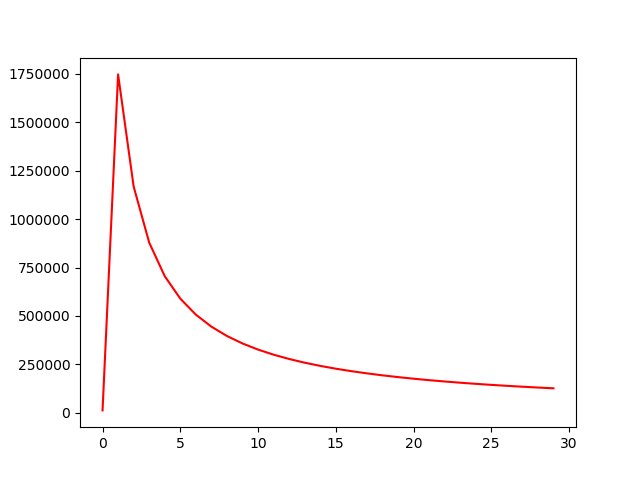
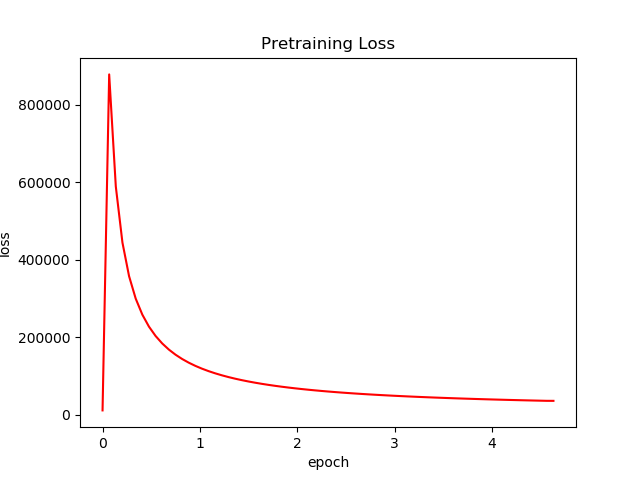
minor tweaks

diff --git a/python/FULL_MODEL_001/Net.py b/python/FULL_MODEL_001/Net.py
@@ -45,16 +45,15 @@ class Net(torch.nn.Module):
 
     def forward(self, x):
         x = x.unsqueeze(1)
-        x = self.do(x)
 
         a0 = F.relu(self.layer1(x))
         a0 = a0.reshape(a0.size(0), -1)    # Conv2D
 
-        a1 = self.bn1(F.relu(self.fc1(a0)))                    # FC layer 1
+        a1 = self.do(self.bn1(F.relu(self.fc1(a0))))                    # FC layer 1
 
-        a2 = self.bn2(F.relu(self.fc2(a1)))                     # FC layer 2
+        a2 = self.do(self.bn2(F.relu(self.fc2(a1))))                     # FC layer 2
 
-        a3 = self.bn3(F.relu(self.fc3(a2)))                     # FC layer 3
+        a3 = self.do(self.bn3(F.relu(self.fc3(a2))))                     # FC layer 3
 
         aDS = [F.relu(FC(a3)) for FC in self.DSP]
         o = [out(a4) for a4, out in zip(aDS, self.out)]
@@ -90,9 +89,9 @@ class Net(torch.nn.Module):
                                                             verbose=True, threshold=10,
                                                             threshold_mode='rel', cooldown=0,
                                                             min_lr=1e-5, eps=1e-08)
+        mse = []
         for epoch in range(self.params['PRETRAIN_EPOCHS']):
             total_loss = 0
-            mse = []
             self.train()
             ii = 0
             for X,y,_,resp_selector in self.train_gen:
@@ -112,7 +111,10 @@ class Net(torch.nn.Module):
 
     def plot_mse(self, mse, name):
         plt.figure()
-        plt.plot(mse, 'r-')
+        plt.plot((self.params['train_params']['batch_size']/len(self.test_gen.dataset))*np.arange(len(mse)), mse, 'r-')
+        plt.xlabel('epoch')
+        plt.ylabel('loss')
+        plt.title('Pretraining Loss')
         plt.savefig(f"{self.params['MODEL_OUT_DIR']}/{self.params['NAME']}/{name}.png")
         plt.close('all')
 
@@ -125,15 +127,15 @@ class Net(torch.nn.Module):
         loss_func = torch.nn.MSELoss(reduction='sum')
         scheduler = torch.optim.lr_scheduler.ReduceLROnPlateau(optim, mode='min',
                                                             factor=0.1, patience=self.params['LR_DECAY_PATIENCE'],
-                                                            verbose=True, threshold=1000,
+                                                            verbose=False, threshold=100,
                                                             threshold_mode='rel', cooldown=0,
                                                             min_lr=1e-5, eps=1e-08)
 
         self.recorder={'train':{'total_loss':[], 'mse':[], 'batch-mse':[]}, 'test':{'mse':[], 'batch-mse':[]}}
         MAX_EPOCH = self.params['EPOCHS']
+        tr_mse = []
         for epoch in range(MAX_EPOCH):
             total_loss = 0
-            mse = 0
             yhats=[]
             ys=[]
             self.train()
@@ -149,13 +151,14 @@ class Net(torch.nn.Module):
                 optim.zero_grad()
                 loss.backward()
                 optim.step()
+                scheduler.step(total_loss)
                 total_loss += loss.detach().numpy()
                 yhats += yhat.data.numpy()[resp_selector==1].ravel().tolist()
                 ys += y.data.numpy().ravel().tolist()
                 self.recorder['train']['batch-mse'].append(loss.detach().numpy()/X.size(0))
-                print(f'Train set... \t mse: [{loss.detach().numpy()/(X.size(0)):.4f}]  \t |  Epoch progress: [{ii}/{len(self.train_gen.dataset)}] {"."*int(ii/(len(self.train_gen.dataset)/10))}', end = '\t\t\t\r')
-
-            scheduler.step(total_loss)
+                tr_mse.append(total_loss/ii)
+                self.plot_mse(tr_mse, 'training_sse')
+                print(f'Train set... mse: [{loss.detach().numpy()/(X.size(0)):.4f}] | Epoch progress: [{ii}/{len(self.train_gen.dataset)}] {"."*int(ii/(len(self.train_gen.dataset)/10))}', end = '\t\t\t\r')
 
 
             self.recorder['train']['total_loss'].append(total_loss)
@@ -178,18 +181,18 @@ class Net(torch.nn.Module):
                 test_yhats += yhat.data.numpy()[resp_selector==1].ravel().tolist()
                 test_ys += y.data.numpy().ravel().tolist()
                 self.recorder['test']['batch-mse'].append(loss/X.size(0))
-                print(f'Test set... \t mse: [{loss/(X.size(0)):.4f}]   \t |  Epoch progress: [{jj}/{len(self.test_gen.dataset)}] {"."*int(jj/(len(self.test_gen.dataset)/10))}', end = '\t\t\t\r')
+                print(f'Test set... mse: [{loss/(X.size(0)):.4f}] | Epoch progress: [{jj}/{len(self.test_gen.dataset)}] {"."*int(jj/(len(self.test_gen.dataset)/10))}', end = '\t\t\t\r')
 
             self.recorder['test']['mse'].append(test_total_loss/len(self.test_gen.dataset))
 
-            self.plotter.update(tr_ys=ys[:10000], tr_yhats=yhats[:10000],
-                                tst_ys=test_ys[:10000], tst_yhats=test_yhats[:10000],
+            self.plotter.update(tr_ys=ys, tr_yhats=yhats,
+                                tst_ys=test_ys, tst_yhats=test_yhats,
                                 epoch=epoch, tr_loss=self.recorder['train']['mse'][-1],
                                 tst_loss=self.recorder['test']['mse'][-1])
 
             if (epoch % self.params['PRINT_EVERY']) == 0:
                 print()
-                print(f'\t epoch {epoch+1}/{MAX_EPOCH} \t\t\t | \t train total loss: {total_loss:.2f} | train mse: {total_loss/len(self.train_gen.dataset):.6f} || test total_loss: {test_total_loss:.2f} | test mse: {test_total_loss / len(self.test_gen.dataset):.4f}\t\t\t')
+                print(f'>>> END EPOCH {epoch+1}/{MAX_EPOCH} || train total loss: {total_loss:.2f} | train mse: {total_loss/len(self.train_gen.dataset):.6f} || test total_loss: {test_total_loss:.4g} | test mse: {test_total_loss / len(self.test_gen.dataset):.4g} \t\t\t')
         print()
         print('training complete...')
         self.plotter.save_gif(f"{self.params['MODEL_OUT_DIR']}/{self.params['NAME']}/training_fit.gif")
@@ -198,17 +201,17 @@ class Net(torch.nn.Module):
     def plot_training_loss(self):
 
         plt.figure(figsize=(12,8))
-        plt.plot(self.recorder['test']['mse'], 'r-', label='test mse')
-        plt.plot(np.linspace(0, len(self.recorder['test']['mse'])-1, len(self.recorder['test']['batch-mse'])),
-                    self.recorder['test']['batch-mse'],
-                    'r--', label='test batch-mse', alpha=0.75)
-        plt.plot(self.recorder['train']['mse'], 'b-', label='train mse')
         plt.plot(np.linspace(0, len(self.recorder['train']['mse'])-1, len(self.recorder['train']['batch-mse'])),
                     self.recorder['train']['batch-mse'],
-                    'b--', label='train batch-mse', alpha=0.75)
+                    'b--', label='train batch-mse', alpha=0.2)
+        plt.plot(self.recorder['test']['mse'], 'r-', label='test mse')
+        #plt.plot(np.linspace(0, len(self.recorder['test']['mse'])-1, len(self.recorder['test']['batch-mse'])),
+        #            self.recorder['test']['batch-mse'],
+        #            'r--', label='test batch-mse', alpha=0.75)
+        plt.plot(self.recorder['train']['mse'], 'b-', label='train mse')
 
         plt.xlabel('epochs')
-        plt.ylabel('log10(Mean Square Error)')
+        plt.ylabel('Sum of Square Errors')
         plt.title('Training Loss')
         plt.legend()
         plt.savefig(f"{self.params['MODEL_OUT_DIR']}/{self.params['NAME']}/training_loss_plot.png")

diff --git a/python/FULL_MODEL_001/utils.py b/python/FULL_MODEL_001/utils.py
@@ -8,7 +8,6 @@ import torch
 import pandas as pd
 import imageio
 
-
 def AE_LOSS(output, target, gamma):
     '''
     Encoding our targets properly is very important; this custom loss function
@@ -24,11 +23,12 @@ def AE_LOSS(output, target, gamma):
 # plot and show learning process
 #from : https://medium.com/@benjamin.phillips22/simple-regression-with-neural-networks-in-pytorch-313f06910379
 class Training_Progress_Plotter:
-    def __init__(self, figsize = (12,10)):
+    def __init__(self, figsize = (12,10), ylim = (-2.5,2.5)):
         '''
         '''
         self.fig, self.axes = plt.subplots(1,2, figsize = figsize)
         self.images = []
+        self.ylim = ylim
 
     def update(self,tr_ys, tr_yhats, tst_ys, tst_yhats, epoch, tr_loss, tst_loss):
         '''
@@ -38,11 +38,13 @@ class Training_Progress_Plotter:
         self.axes[0].cla()
 
         ######### TRAIN #########
+        alpha_ = 100/len(tr_ys)
+
         tr_df = pd.DataFrame({'y':tr_ys, 'yhat':tr_yhats})
         tr_df.sort_values(by='y', inplace=True)
 
-        self.axes[0].plot(tr_df.values[:,0], 'ro', label='true', alpha=0.5)
-        self.axes[0].plot(tr_df.values[:,1], 'bo', label='predicted', alpha=0.05)
+        self.axes[0].plot(tr_df.values[:,0], 'ro', label='true', alpha=alpha_)
+        self.axes[0].plot(tr_df.values[:,1], 'bo', label='predicted', alpha=0.1*alpha_)
 
         self.axes[0].set_title('Regression Analysis [Training Set]', fontsize=15)
         self.axes[0].set_xlabel('Sorted observations', fontsize=24)
@@ -51,14 +53,17 @@ class Training_Progress_Plotter:
         self.axes[0].text(100, 30, 'Epoch = %d' % epoch, fontdict={'size': 24, 'color':  'red'})
         self.axes[0].text(100, 50, 'Loss = %.4f' % tr_loss, fontdict={'size': 24, 'color':  'red'})
 
+        self.axes[0].set_ylim(bottom=self.ylim[0], top=self.ylim[1])
+
         ######### TEST #########
+        alpha_ = 100/len(tst_ys)
 
         self.axes[1].cla()
         tst_df = pd.DataFrame({'y':tst_ys, 'yhat':tst_yhats})
         tst_df.sort_values(by='y', inplace=True)
 
-        self.axes[1].plot(tst_df.values[:,0], 'ro', label='true', alpha=0.5)
-        self.axes[1].plot(tst_df.values[:,1], 'bo', label='predicted', alpha=0.05)
+        self.axes[1].plot(tst_df.values[:,0], 'ro', label='true', alpha=alpha_)
+        self.axes[1].plot(tst_df.values[:,1], 'bo', label='predicted', alpha=0.1*alpha_)
         plt.legend(loc='upper right')
 
         self.axes[1].set_title('Regression Analysis [Test Set]', fontsize=15)
@@ -67,6 +72,8 @@ class Training_Progress_Plotter:
 
         self.axes[1].text(1, 1, 'Epoch = %d' % epoch, fontdict={'size': 24, 'color':  'red'})
         self.axes[1].text(1, 2, 'Loss = %.4f' % tst_loss, fontdict={'size': 24, 'color':  'red'})
+
+        self.axes[1].set_ylim(bottom=self.ylim[0], top=self.ylim[1])
 
         # (https://ndres.me/post/matplotlib-animated-gifs-easily/)
         self.fig.canvas.draw()       # draw the canvas, cache the renderer

diff --git a/python/FULL_MODEL_001/config.py b/python/FULL_MODEL_001/config.py
@@ -32,24 +32,24 @@ params = {
                                         'beatAML_AUC'])},
 'N_DATATYPES' : 7,
 
-'H1' : 1000,
-'H2' : 500,
+'H1' : 2000,
+'H2' : 1000,
 'H3' : 100,                # Layer 3 - Dataset Shared
-'DH' : 100,                # Dataset Specific Layer
+'DH' : 500,                # Dataset Specific Layer
 
-'DO' : 0.,                # Dropout
-'NCONVS' : 2,
+'DO' : 0.25,                # Dropout
+'NCONVS' : 10,
 'PRINT_EVERY' : 1,
 'NGENES' : 523, #/ 523
-'EPOCHS' : 10,
-'LEARNING_WEIGHT' : 5e-2,
+'EPOCHS' : 2,
+'LEARNING_WEIGHT' : 1e-1,
 'WEIGHT_DECAY' : 0.001,
-'LR_DECAY_PATIENCE' : 3,
-'PRETRAIN_EPOCHS' : 3,
-'PRETRAIN_LR' : 1,
+'LR_DECAY_PATIENCE' : 50,       # batches (not epochs)
+'PRETRAIN_EPOCHS' : 1,
+'PRETRAIN_LR' : 1e-1,
 'PRETRAIN_WD' : 0.01,
-'PRETRAIN_DO' : 0.1,
-'PRETRAIN_MSE_WEIGHT' : 1000,     # Weight applied to target MSE
+'PRETRAIN_DO' : 0.9,
+'PRETRAIN_MSE_WEIGHT' : 10,     # Weight applied to target MSE
 # -----------------------------------------------------------------------------
 # -----------------------------------------------------------------------------
 'REPRODUCIBLE' : True,

diff --git a/python/FULL_MODEL_001/test.py b/python/FULL_MODEL_001/test.py
@@ -43,8 +43,6 @@ if __name__ == '__main__':
         axes.flat[-1].tick_params(axis='x', which='both', bottom=False, top=False, labelbottom=False)
         axes.flat[-1].tick_params(axis='y', which='both', right=False, left=False, labelleft=False)
         alpha_ = 284./len(ys)
-        print(alpha_)
-
 
         #axes.flat[i].plot(np.log10(((df['y']-df['yhat'])**2).values), 'g--', label='log10 Quadratic Error', alpha=0.2)
         axes.flat[i].plot(df['yhat'].values, 'b.', label='predicted', alpha=alpha_)
